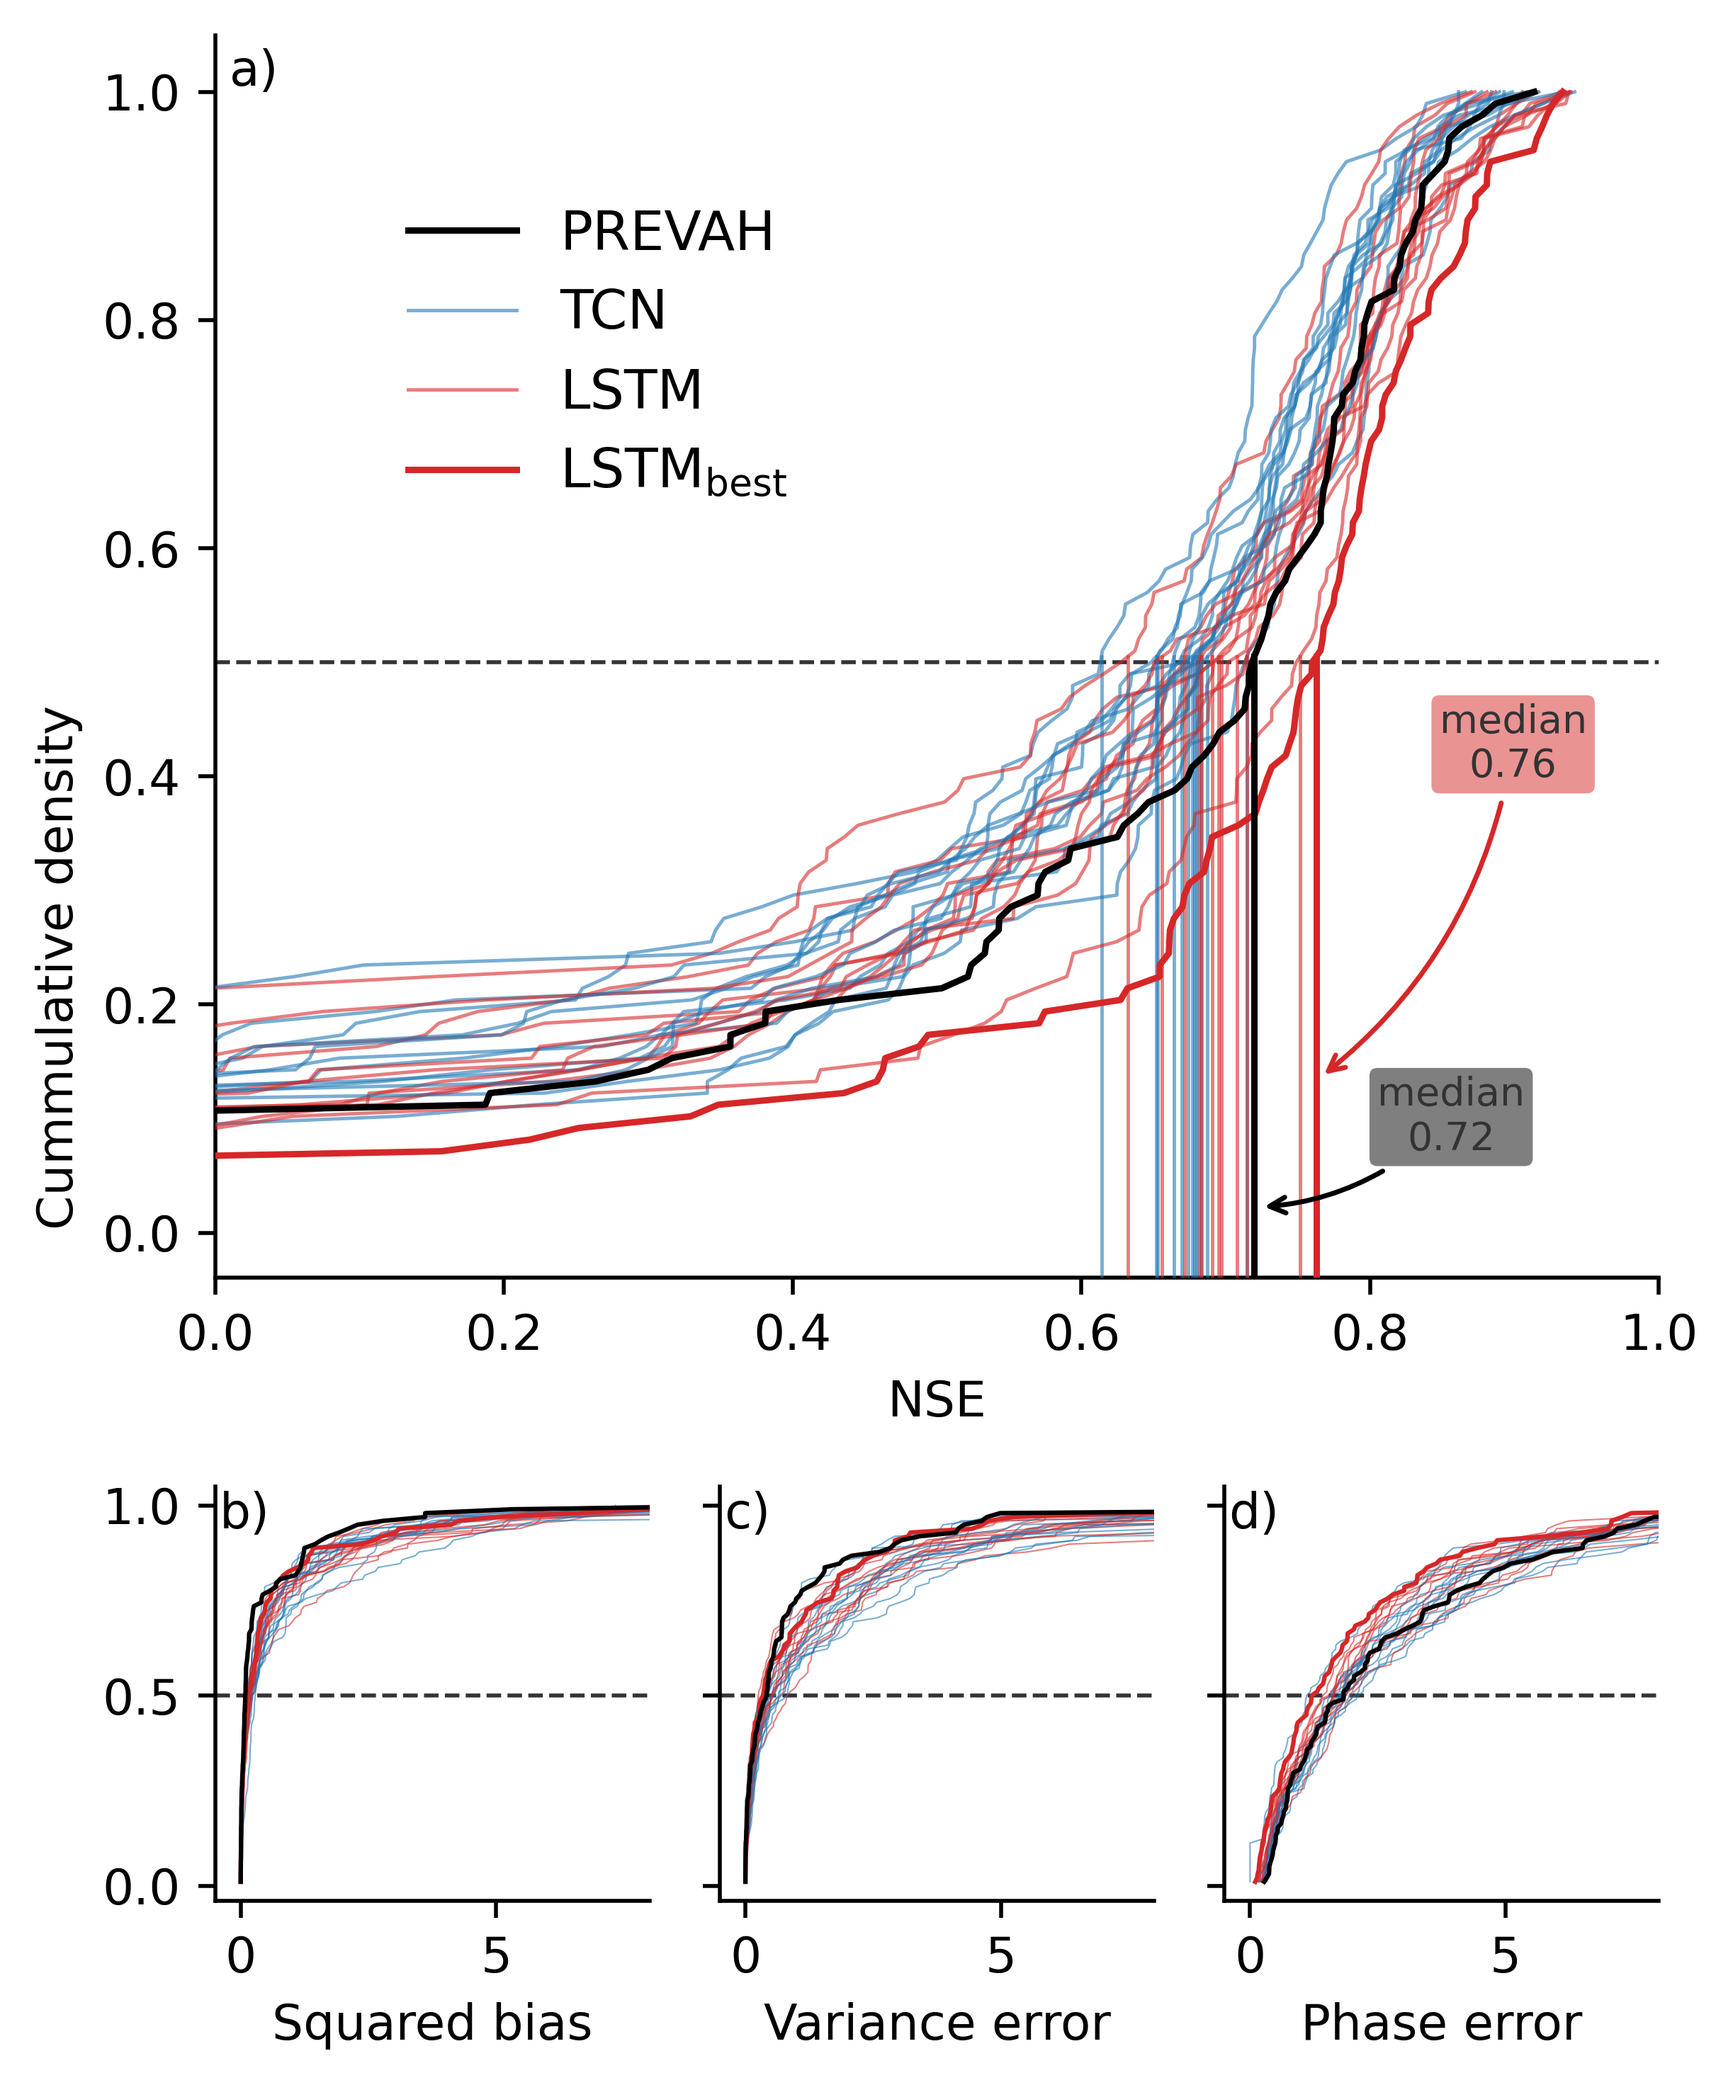
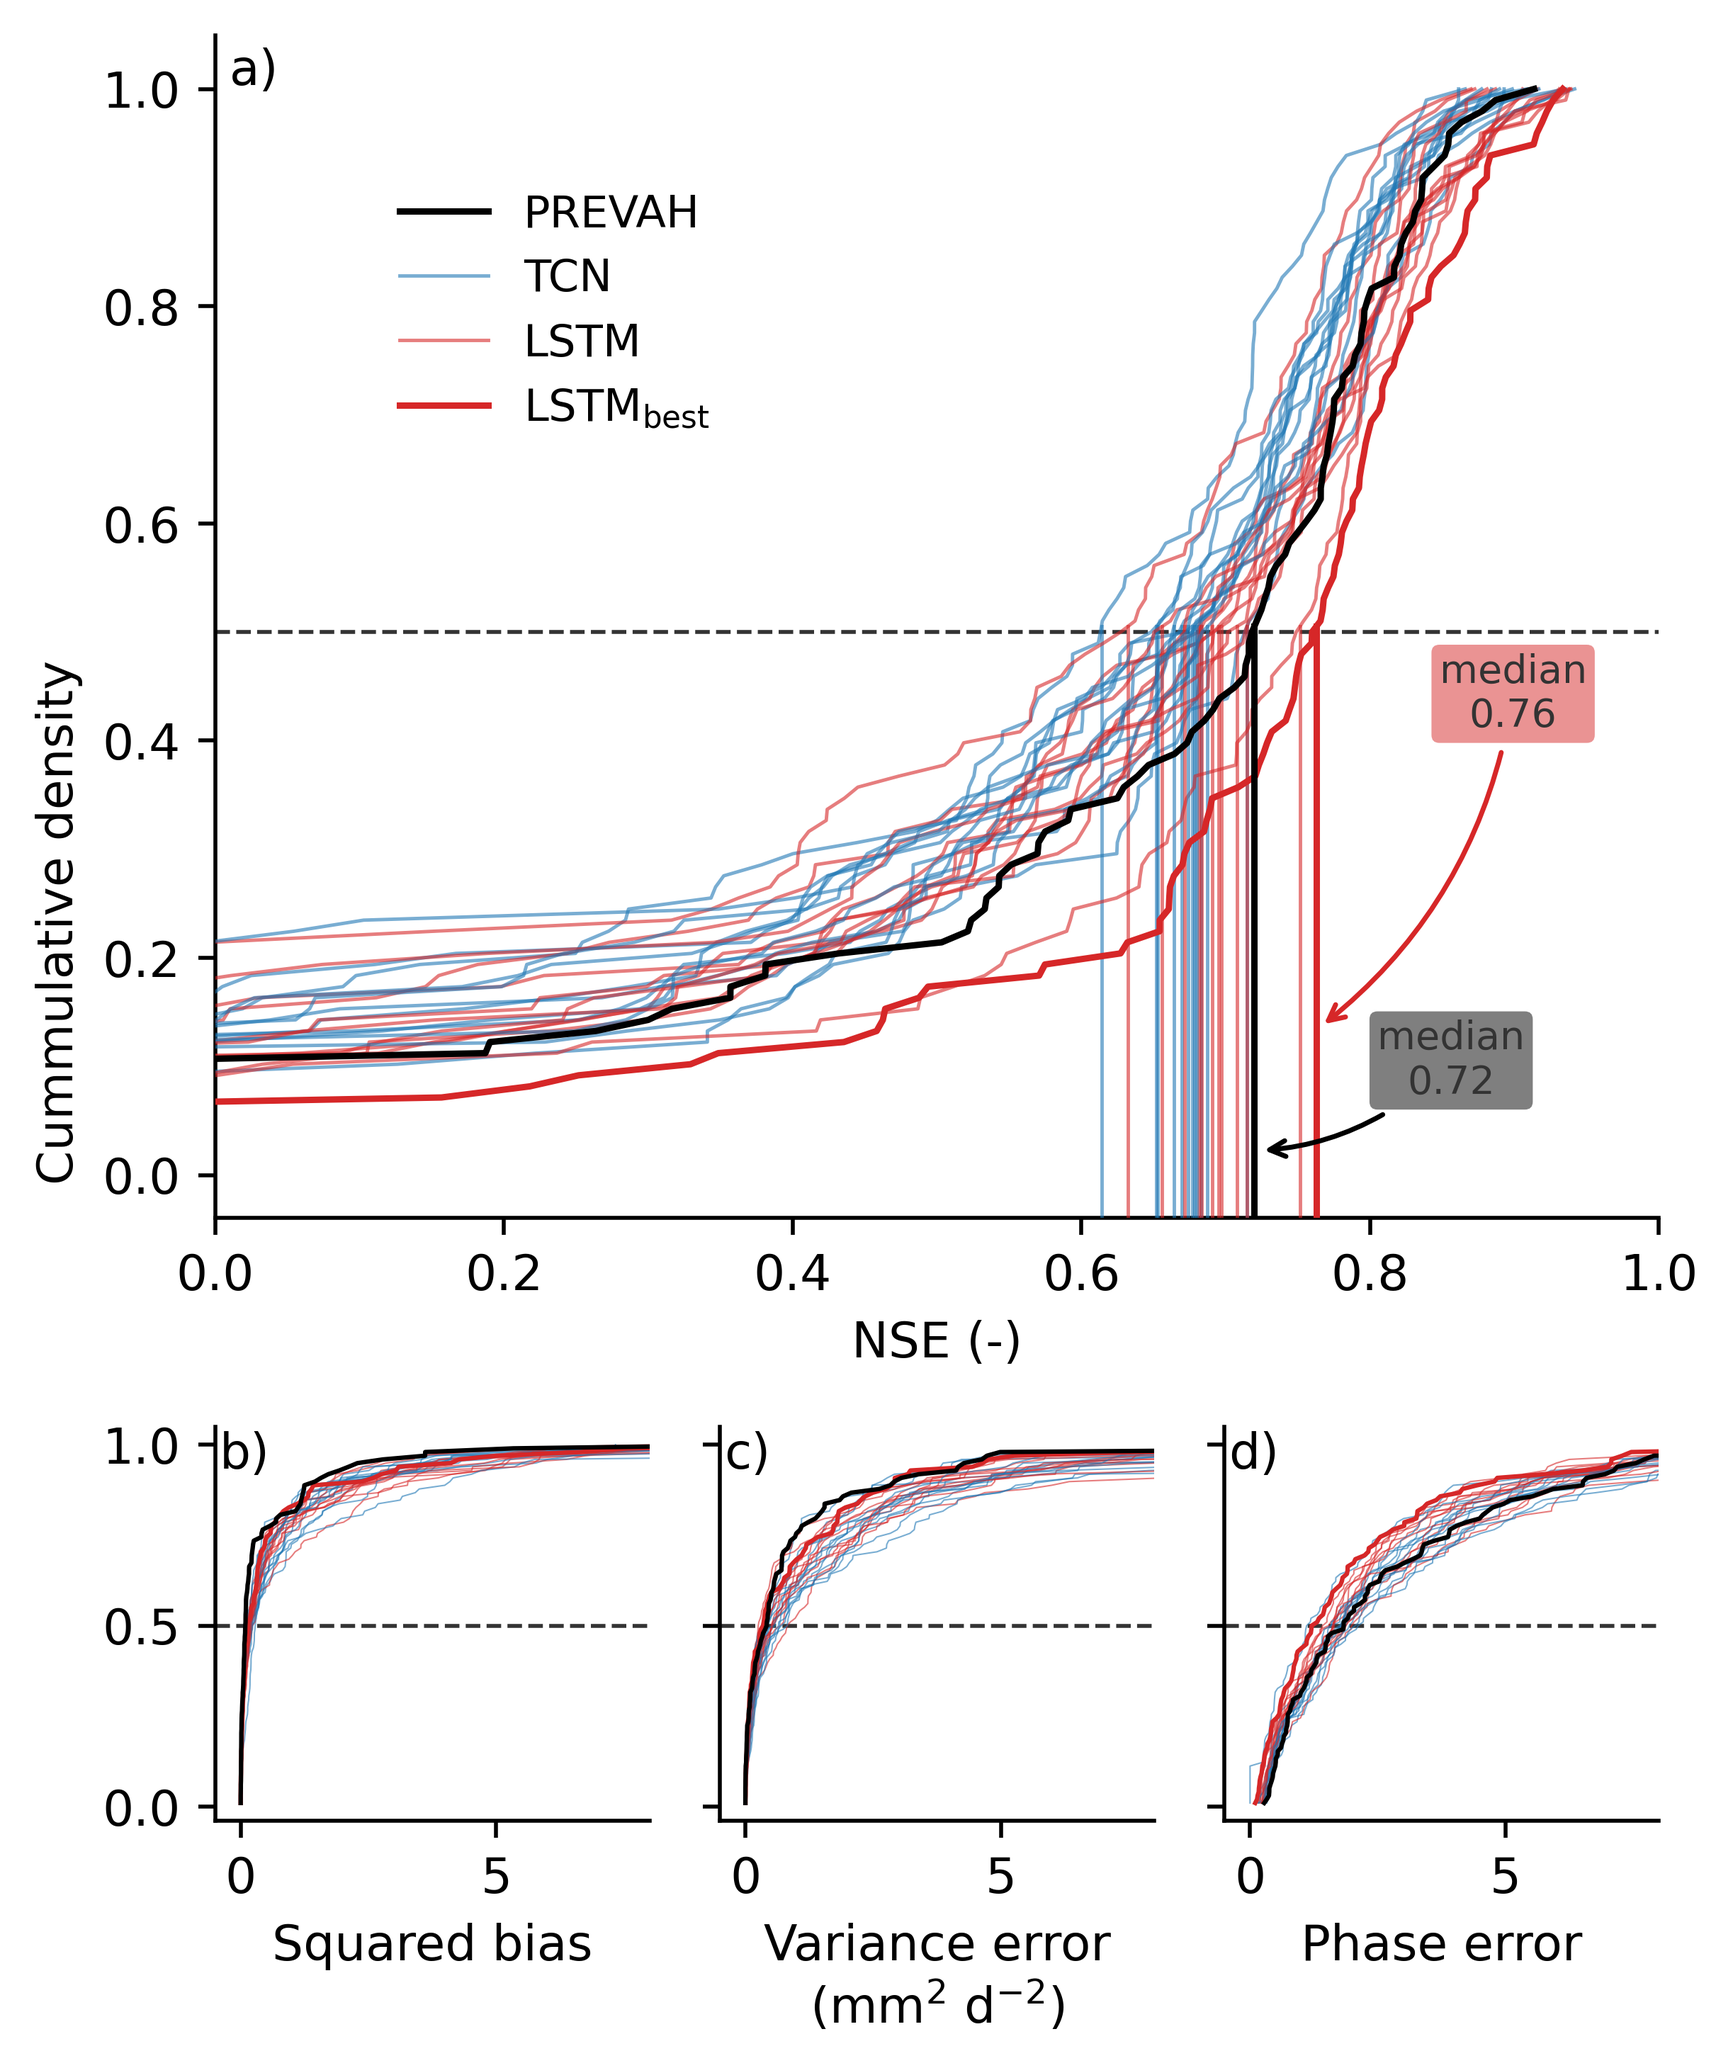
update visualization

diff --git a/analysis/annual_vis.py b/analysis/annual_vis.py
@@ -68,7 +68,7 @@ def plot_linreg(x, y, color, ax, **kwargs):
     ax.scatter(x, y, color=color, zorder=101, **kwargs)
     y_pred = est.predict(X)
     x_pred = x
-    ax.plot(x_pred, y_pred, color=color, lw=1.3, zorder=100, ls='-')
+    ax.plot(x_pred, y_pred, color=color, lw=1.7, zorder=100, ls='-')
 
     pred = est.get_prediction(X).summary_frame()
     ax.fill_between(x_pred, pred['mean_ci_lower'], pred['mean_ci_upper'],
@@ -171,9 +171,9 @@ ymin1, ymax1 = pf_mod.quantile([0, 1])
 ymin = min(ymin0, ymin1)
 ymax = max(ymax0, ymax1)
 
-ax.plot([xmin, xmax], [xmin, xmax], color='k', lw=1.0, ls='--', zorder=-1)
+ax.plot([xmin, xmax], [xmin, xmax], color='k', lw=0.7, ls='--', zorder=-1)
 
-extra_f = 0.05
+extra_f = 0.12
 xrng = (xmax - xmin) * extra_f
 xmin -= xrng
 xmax += xrng

diff --git a/analysis/model_vis.py b/analysis/model_vis.py
@@ -175,11 +175,11 @@ for i, metric in enumerate(metrics):
                 **annot_kwargs)
 
         if metric == 'nse':
-            mname = 'NSE'
+            mname = 'NSE (-)'
         elif metric == 'bias2':
             mname = 'Squared bias'
         elif metric == 'varerr':
-            mname = 'Variance error'
+            mname = 'Variance error\n(mm$^2$ d$^{-2}$)'
         elif metric == 'phaseerr':
             mname = 'Phase error'
         else:
@@ -204,7 +204,7 @@ for i, metric in enumerate(metrics):
             [handle_list[idx] for idx in order],
             [label_list[idx] for idx in order],
             frameon=False,
-            fontsize=11,
+            fontsize=9,
             loc='upper left',
             bbox_to_anchor=(0.1, 0.9))
 

diff --git a/analysis/catchment_vis.py b/analysis/catchment_vis.py
@@ -86,8 +86,12 @@ legend_elements = [
 leg = ax.legend(handles=legend_elements, loc='upper left',  bbox_to_anchor=(0, 1),
           frameon=True, fancybox=False, fontsize=7)
 
-leg.get_frame().set_edgecolor('b')
-leg.get_frame().set_linewidth(0.0)
+leg.get_frame().set_edgecolor('k')
+leg.get_frame().set_linewidth(1)
+
+ax.plot([780000, 800000], [100000, 100000], color='k', solid_capstyle='butt', lw=3)
+ax.plot([790000, 799500], [100000, 100000], color='w', solid_capstyle='butt', lw=2)
+ax.text(790000, 96000, '20 km', va='top', ha='center', size=7)
 
 cx.add_basemap(ax, source='Esri.WorldTerrain', crs=prevah.crs, zoom=9, zorder=-10, attribution_size=5)
 
